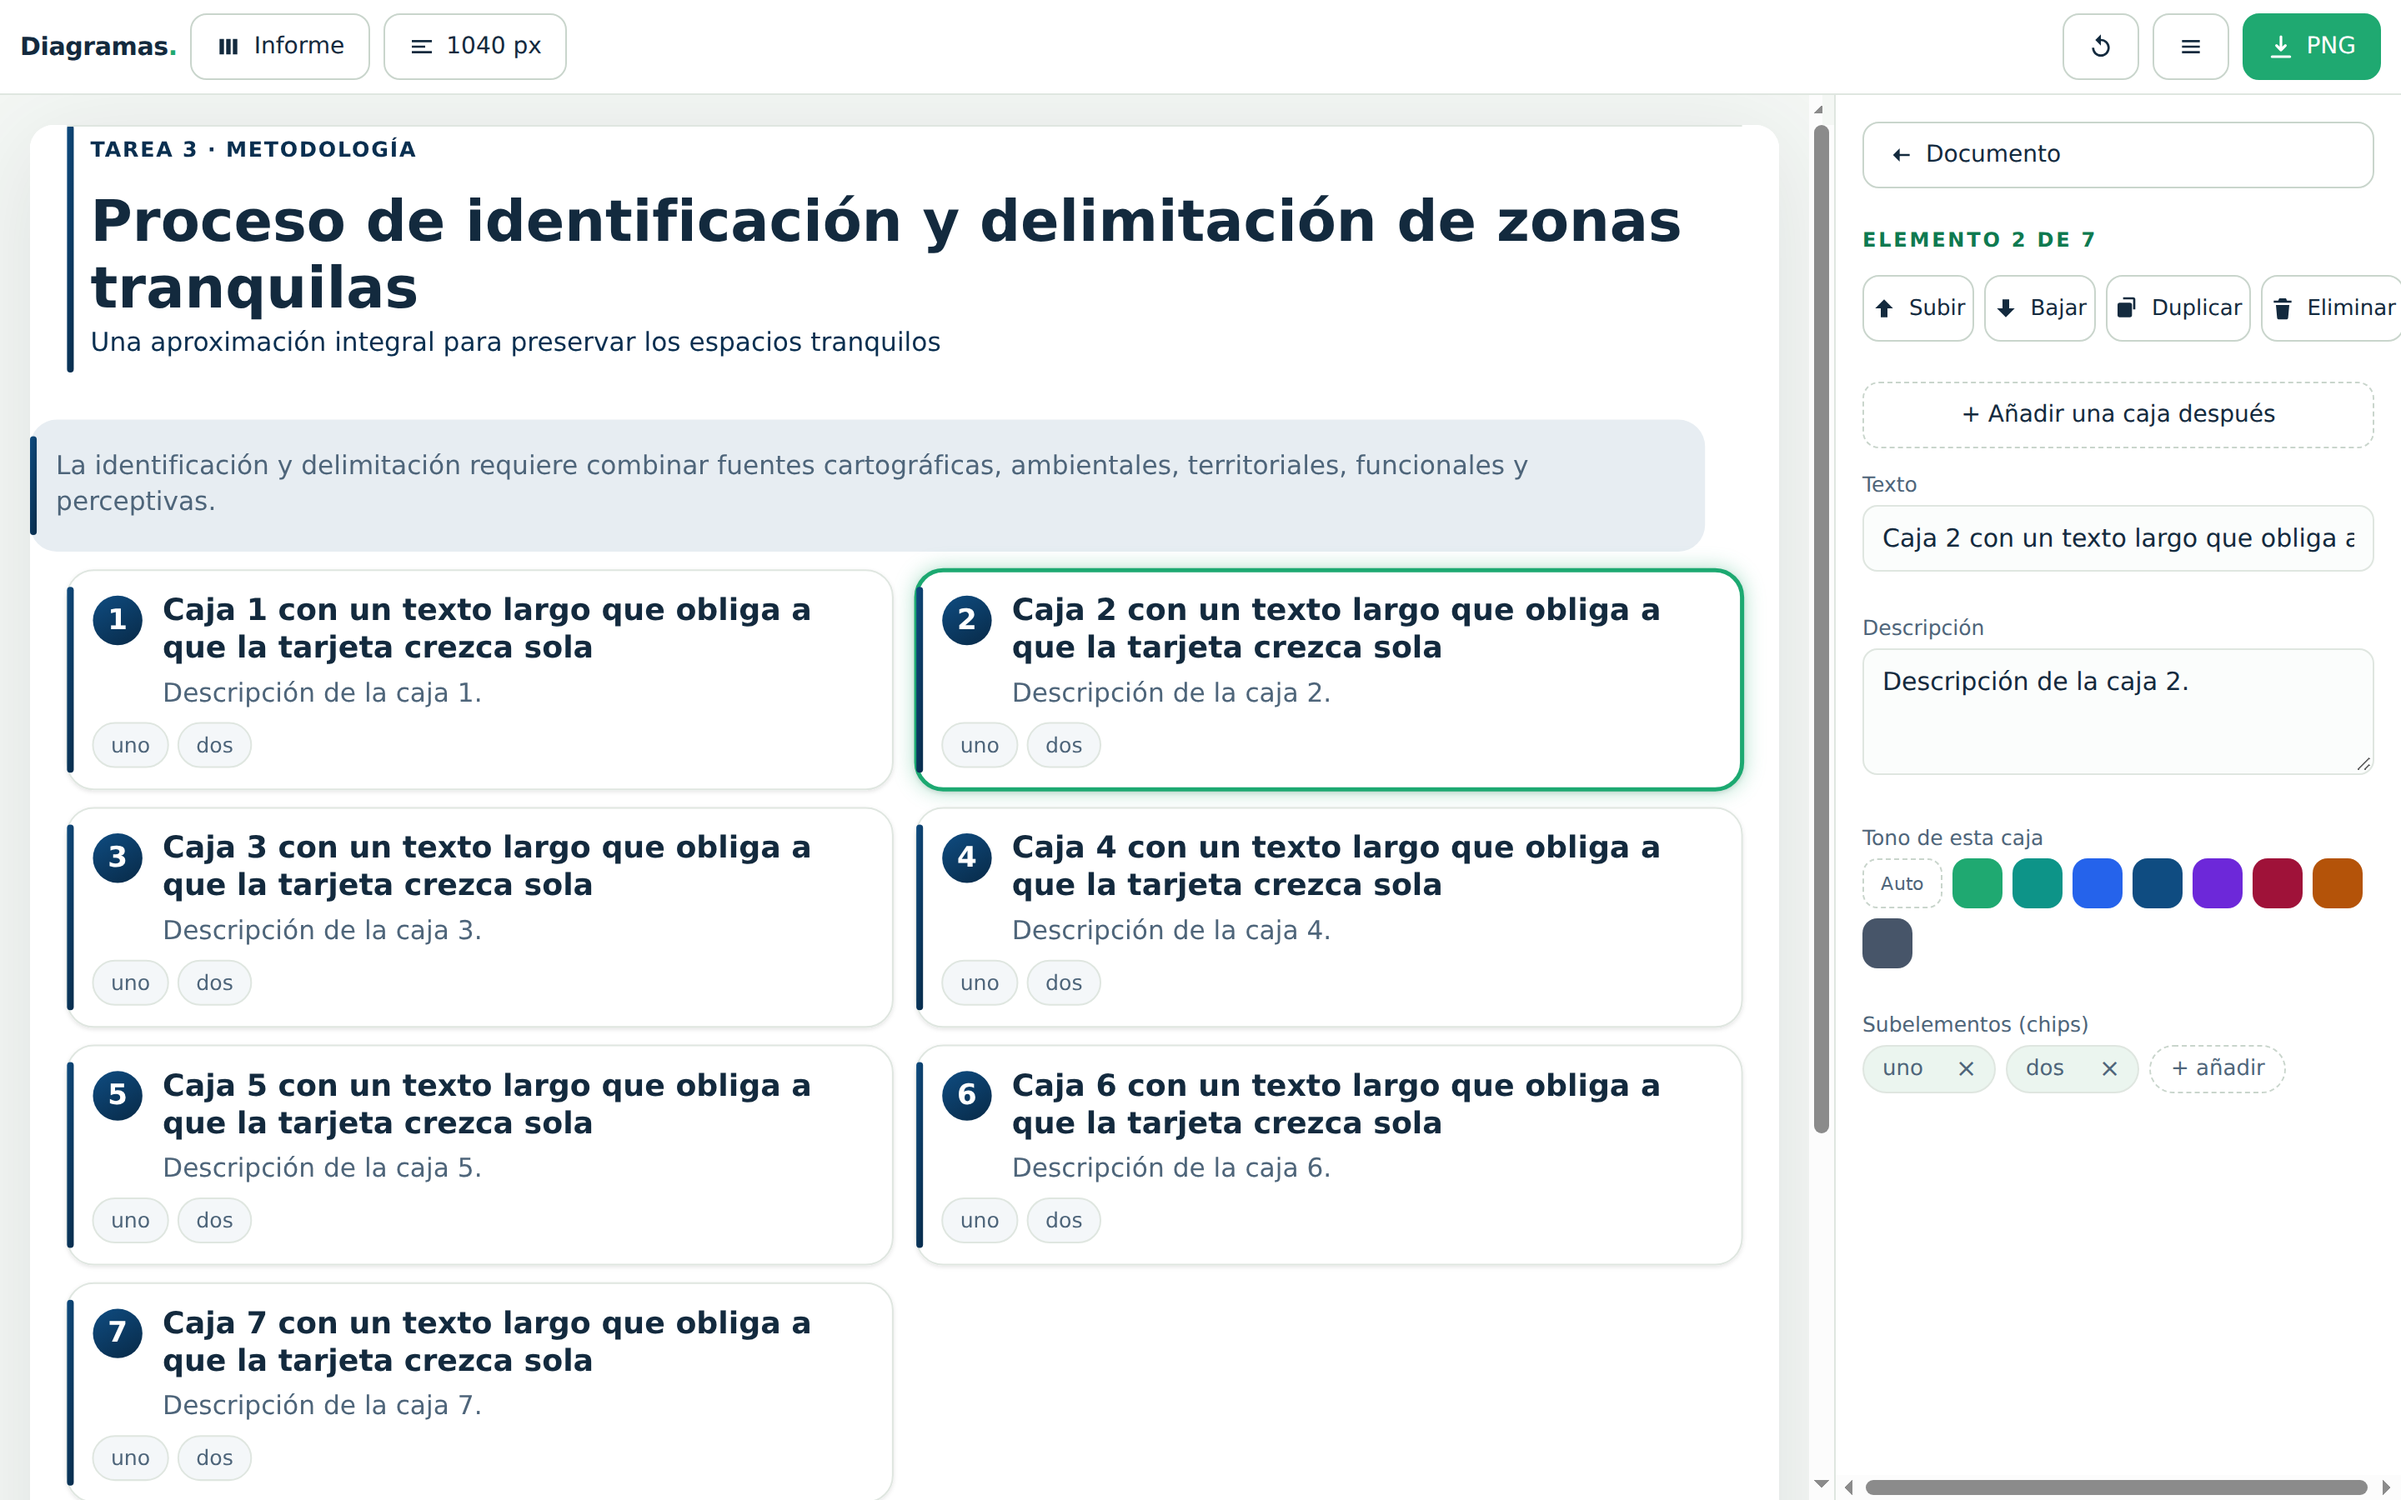
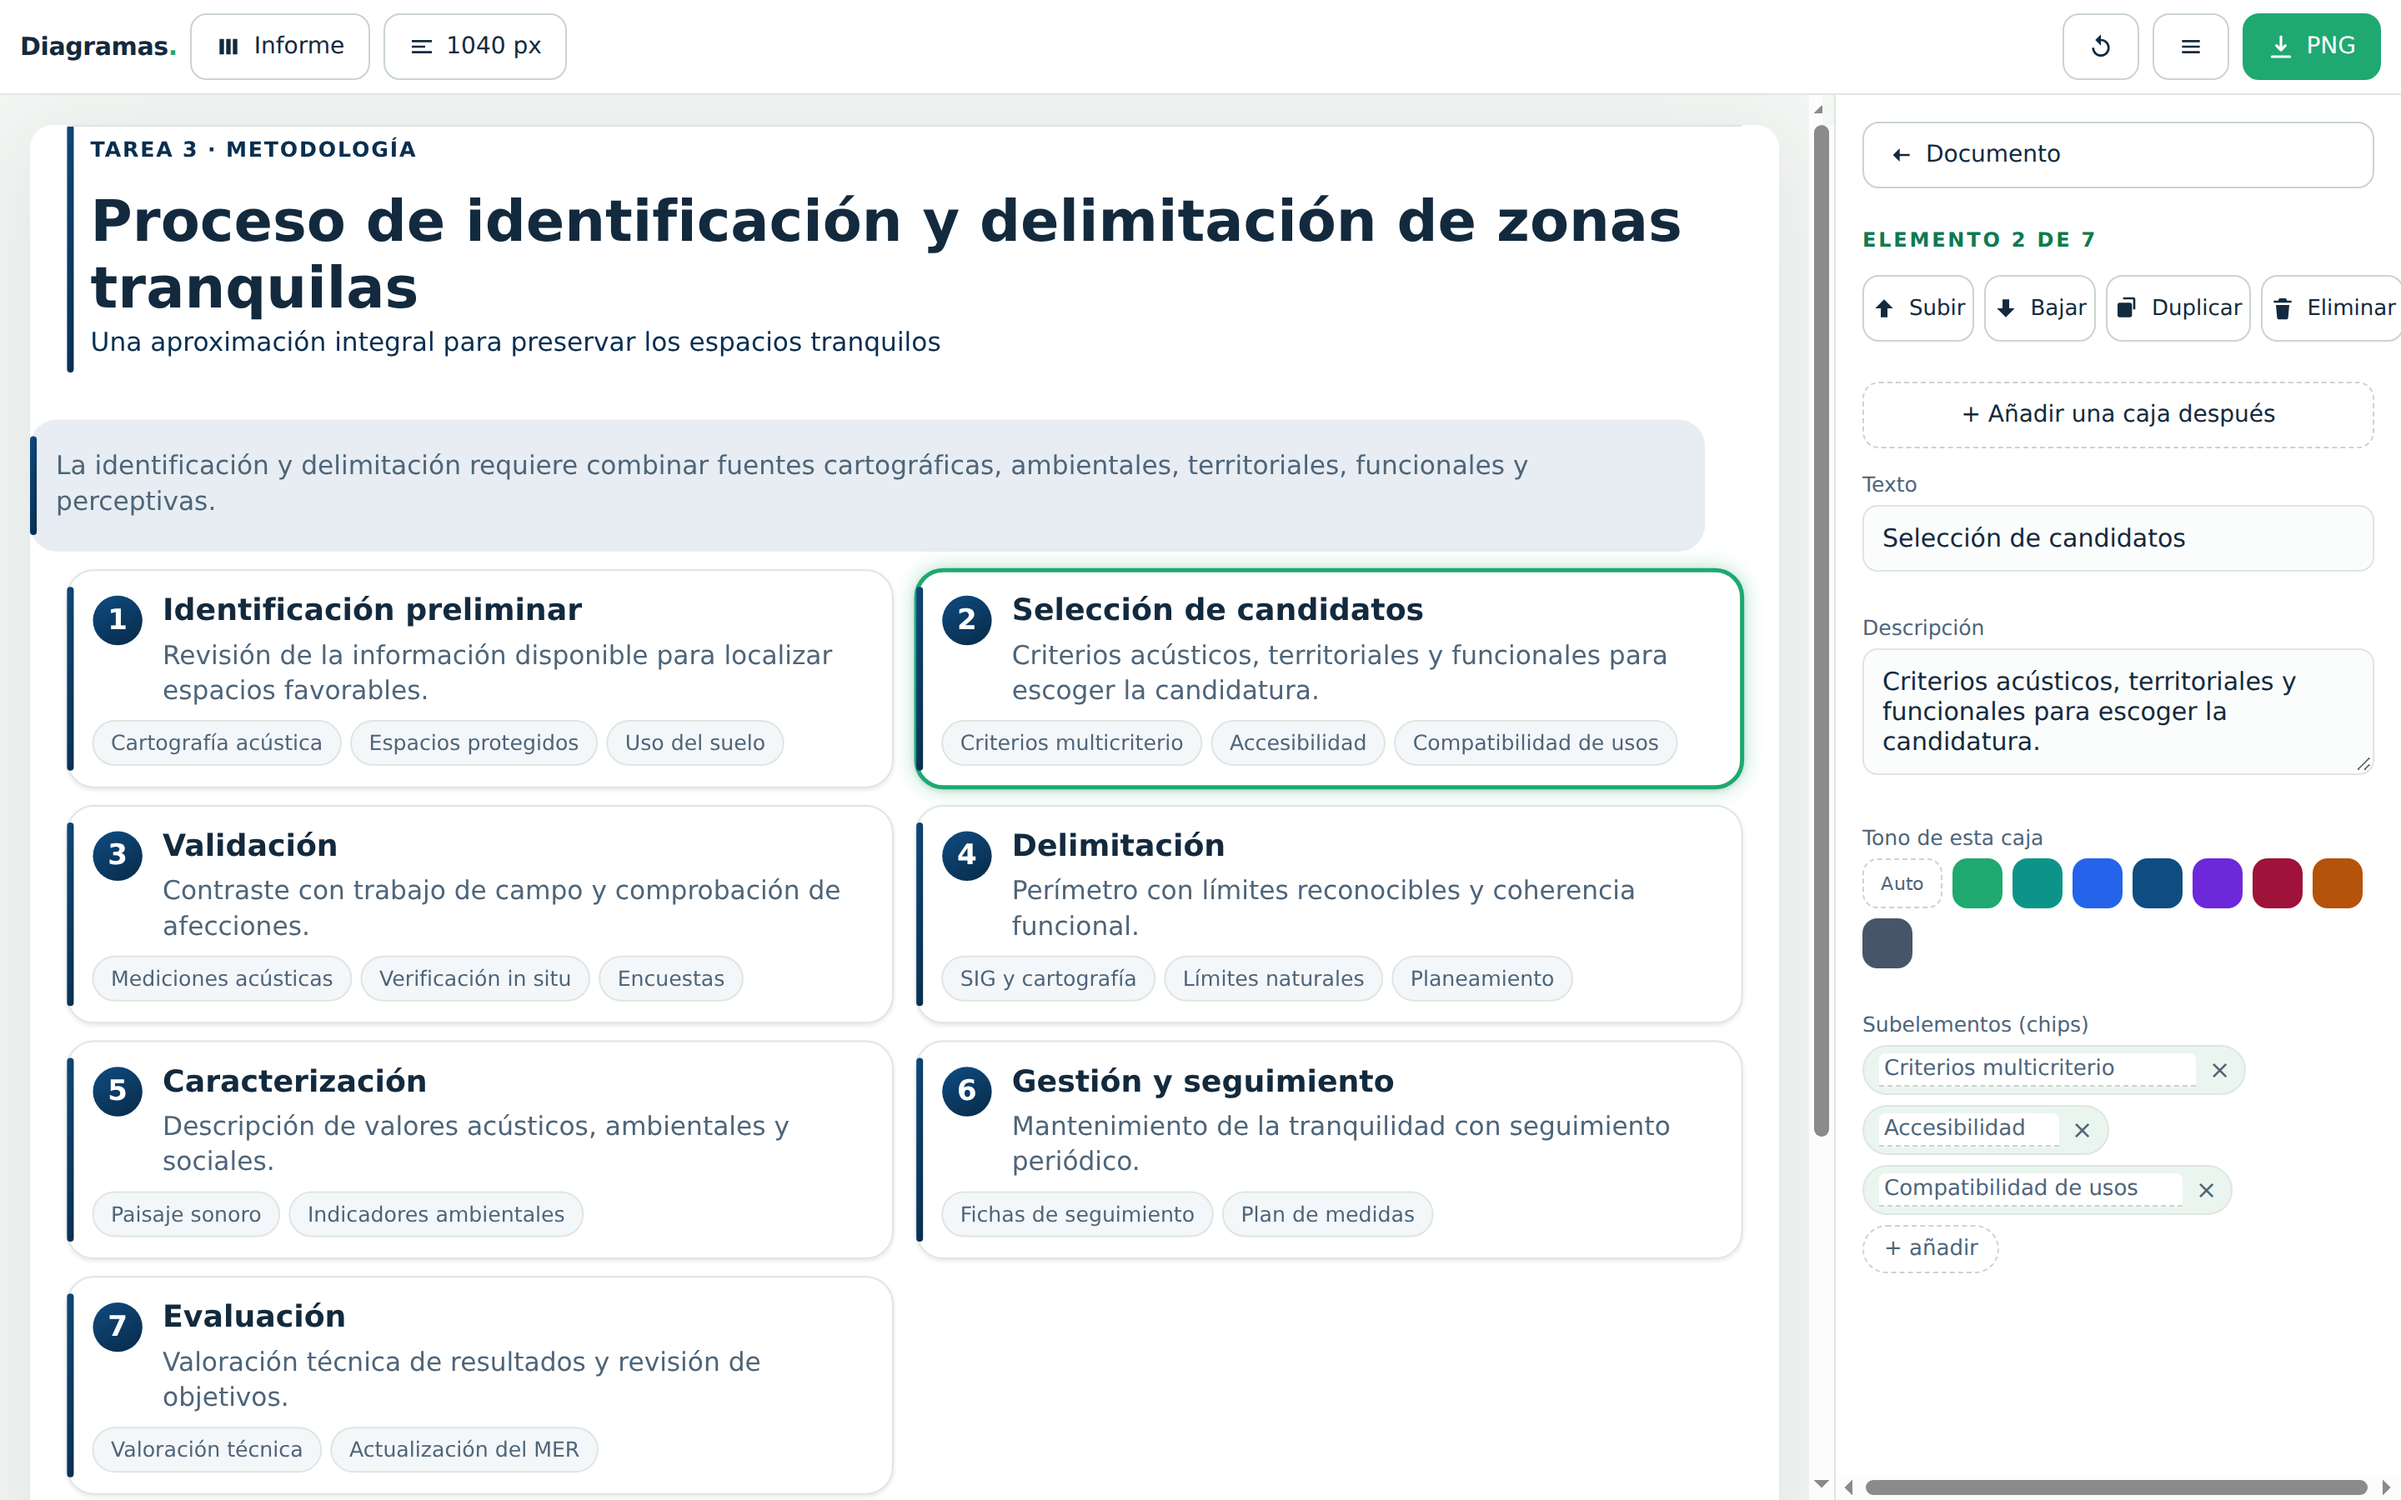
fix(app): los chips editables se ven como campos (subrayado punteado) y capturas con datos limpios

diff --git a/smartart-v2/index.html b/smartart-v2/index.html
@@ -92,8 +92,12 @@ aside h2{font-size:12px;font-weight:600;letter-spacing:1.4px;text-transform:uppe
 .sw{width:30px;height:30px;border-radius:9px;border:2px solid transparent;cursor:pointer;padding:0}
 .sw.on{border-color:var(--tinta);box-shadow:0 0 0 2px #fff inset}
 .sw.auto{background:#fff;border:1px dashed var(--linea2);color:var(--tinta2);font-size:11px;width:auto;padding:0 10px}
-.ch input{border:0;background:transparent;font:inherit;font-size:13px;color:var(--tinta2);width:auto;min-width:36px;outline:none;padding:0}
-.ch input:focus{color:var(--tinta)}
+.ch input{border:0;border-bottom:1px dashed var(--linea2);background:#fff;font:inherit;font-size:13px;color:var(--tinta2);
+  width:auto;min-width:44px;outline:none;padding:2px 3px;border-radius:4px 4px 0 0;transition:border-color .12s,background .12s}
+.ch input:hover{border-bottom-color:var(--verde);background:#fff}
+.ch input:focus{border-bottom:1px solid var(--verde);color:var(--tinta);background:#fff}
+.ch{padding:4px 6px 4px 9px}
+.ch::after{}
 #panel .acciones{display:grid;grid-template-columns:repeat(4,1fr);gap:6px;margin-bottom:10px}
 #panel .acciones .btn{padding:8px 4px;justify-content:center;font-size:13px}
 #panel .add-caja{width:100%;justify-content:center;border-style:dashed}

diff --git a/src/smartart2-ui.html b/src/smartart2-ui.html
@@ -92,8 +92,12 @@ aside h2{font-size:12px;font-weight:600;letter-spacing:1.4px;text-transform:uppe
 .sw{width:30px;height:30px;border-radius:9px;border:2px solid transparent;cursor:pointer;padding:0}
 .sw.on{border-color:var(--tinta);box-shadow:0 0 0 2px #fff inset}
 .sw.auto{background:#fff;border:1px dashed var(--linea2);color:var(--tinta2);font-size:11px;width:auto;padding:0 10px}
-.ch input{border:0;background:transparent;font:inherit;font-size:13px;color:var(--tinta2);width:auto;min-width:36px;outline:none;padding:0}
-.ch input:focus{color:var(--tinta)}
+.ch input{border:0;border-bottom:1px dashed var(--linea2);background:#fff;font:inherit;font-size:13px;color:var(--tinta2);
+  width:auto;min-width:44px;outline:none;padding:2px 3px;border-radius:4px 4px 0 0;transition:border-color .12s,background .12s}
+.ch input:hover{border-bottom-color:var(--verde);background:#fff}
+.ch input:focus{border-bottom:1px solid var(--verde);color:var(--tinta);background:#fff}
+.ch{padding:4px 6px 4px 9px}
+.ch::after{}
 #panel .acciones{display:grid;grid-template-columns:repeat(4,1fr);gap:6px;margin-bottom:10px}
 #panel .acciones .btn{padding:8px 4px;justify-content:center;font-size:13px}
 #panel .add-caja{width:100%;justify-content:center;border-style:dashed}

diff --git a/scripts/muestras-v2.js b/scripts/muestras-v2.js
@@ -54,6 +54,8 @@ const sleep = ms => new Promise(r => setTimeout(r, ms));
   await ev('document.getElementById("bAncho").click()'); await sleep(700);
   await send('Page.captureScreenshot', { format: 'png' }).then(s => fs.writeFileSync(path.join(OUT, 'app-12-cajas.png'), Buffer.from(s.data, 'base64')));
   // captura con otro tono y un elemento seleccionado (chips editables a la vista)
+  await send('Page.navigate', { url: APP }); await sleep(1500);   // parte del ejemplo limpio
+  await ev('localStorage.removeItem("diagramas2"); location.reload();'); await sleep(1600);
   await ev('window.__cambiarTipo("informe")'); await sleep(400);
   await ev(`(function(){ var f=document.getElementById('volverDoc'); if(f) f.click(); var p=document.querySelectorAll('#paleta .sw'); if(p[3]) p[3].click(); })()`); await sleep(700);
   await ev('document.querySelectorAll("#lienzoWrap [data-e]")[1].dispatchEvent(new MouseEvent("click",{bubbles:true}))'); await sleep(500);
